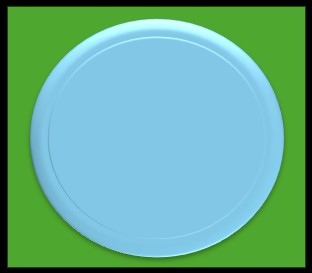
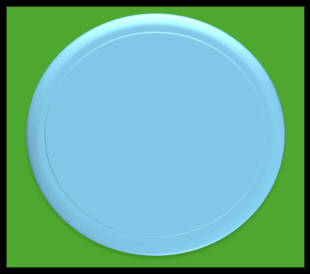
Piece Adjustments
- resized/recolored the game pieces to remove visual artifacts

- began working on "new game" feature

- TODO: remove artifacts from potential space images

diff --git a/Reversi/src/ReversiGame/Reversi.java b/Reversi/src/ReversiGame/Reversi.java
@@ -65,12 +65,15 @@ public class Reversi extends Application {
     ButtonType exitDialog = new ButtonType("OK");
     ButtonType yesAI = new ButtonType("Yes");
     ButtonType noAI = new ButtonType("No");
+    ButtonType yesPlayAgain = new ButtonType("Yes");
+    ButtonType noPlayAgain = new ButtonType("No");
     Alert aiQuery;
     Alert player1Wins;
     Alert player2Wins;
     Alert draw;
     Alert insuffMovesP1;
     Alert insuffMovesP2;
+    Alert playAgainAlert;
 
     GridPane mainPane = new GridPane();
     
@@ -82,6 +85,7 @@ public class Reversi extends Application {
     boolean aiEnabled = false;
     boolean clicked = false;
     boolean potentialSpaceVisible = true;
+    boolean playAgain = false;
     
     Text player1Tracker, player2Tracker, currentTurn;
     Text colorIndicator, status;
@@ -125,6 +129,7 @@ public class Reversi extends Application {
         draw = new Alert(AlertType.INFORMATION, "It's a Draw!", exitDialog);
         insuffMovesP1 = new Alert(AlertType.NONE, "No valid moves remain for Player 1\n GAME OVER", exitDialog);
         insuffMovesP2 = new Alert(AlertType.NONE, "No valid moves remain for Player 2\n GAME OVER", exitDialog);
+        playAgainAlert = new Alert(AlertType.CONFIRMATION, "Would you like to play again?", yesPlayAgain, noPlayAgain);
 
         player1Tracker = new Text("P1 Score: " + player1Count);
         player2Tracker = new Text("P2 Score: " + player2Count);
@@ -1392,7 +1397,6 @@ public class Reversi extends Application {
             } //outer for
             if (validP1s == 0) {
                 insuffMovesP1.showAndWait();
-                //System.out.println("insuffMovesP1");
                 determineEnd();
             } //if no valid moves for player1
         } //if it is player1's turn
@@ -1407,7 +1411,6 @@ public class Reversi extends Application {
             } //outer for
             if (validP2s == 0) {
                 insuffMovesP2.showAndWait();
-               // System.out.println("insuffMovesP2");
                 determineEnd();
             } //if no valid moves for player2
         } //if it is player2's turn
@@ -1421,22 +1424,27 @@ public class Reversi extends Application {
      */
     
     private void determineEnd() {
-
         if (player1Count > player2Count) {
             player1Wins.showAndWait();
-            theStage.close();
-            System.exit(0);
         } //if player1 has higher score
         if (player1Count < player2Count) {
             player2Wins.showAndWait();
-            theStage.close();
-            System.exit(0);
         } //if player2 has higher score
         if (player1Count == player2Count) {
             draw.showAndWait();
+        } //if draw
+
+        Optional<ButtonType> r = playAgainAlert.showAndWait();
+        if (r.toString().equals("Optional[ButtonType [text=Yes, buttonData=OTHER]]")) {
+            playAgain = true;
+        }
+
+        if (!playAgain) {
             theStage.close();
             System.exit(0);
-        } //if draw
+        }
+
+        reset();
     } //determineEnd
 
     /**
@@ -1534,7 +1542,7 @@ public class Reversi extends Application {
         colorIndicator.setFont(new Font(12));
         colorIndicator.setFill(Color.ANTIQUEWHITE);
         colorIndicator.setUnderline(true);
-        colorIndicator.setFill(Color.DARKRED);
+        //colorIndicator.setFill(Color.DARKRED);
         colorIndicator.setStroke(Color.ANTIQUEWHITE);
         colorIndicator.setStrokeWidth(0.25);
         bottom.getChildren().addAll(colorIndicator, pSpaceToggle);
@@ -1774,6 +1782,11 @@ public class Reversi extends Application {
                 player2EX.setImage(player2S);
                 break;
         }
+    }
+
+    // reset the game state to play again
+    private void reset() {
+
     }
 
     public static void main(String[] args) {

diff --git a/README.md b/README.md
@@ -8,5 +8,5 @@ random-select AI with which a single user may play as opposed to the original de
 Additional features I would like to add eventually include:
 - [x] AI improvements for increased difficulty
 - [x] Option to change game's color scheme mid-match
-- [ ] Option to save the game and return to it later
+- [ ] Option to play another game after winning/losing
 - [x] Ability to show/hide potential space markings
